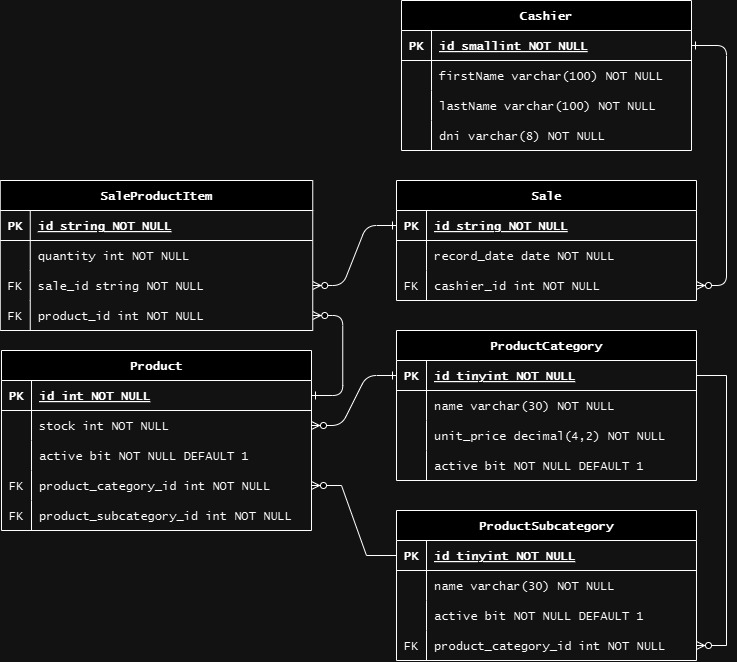
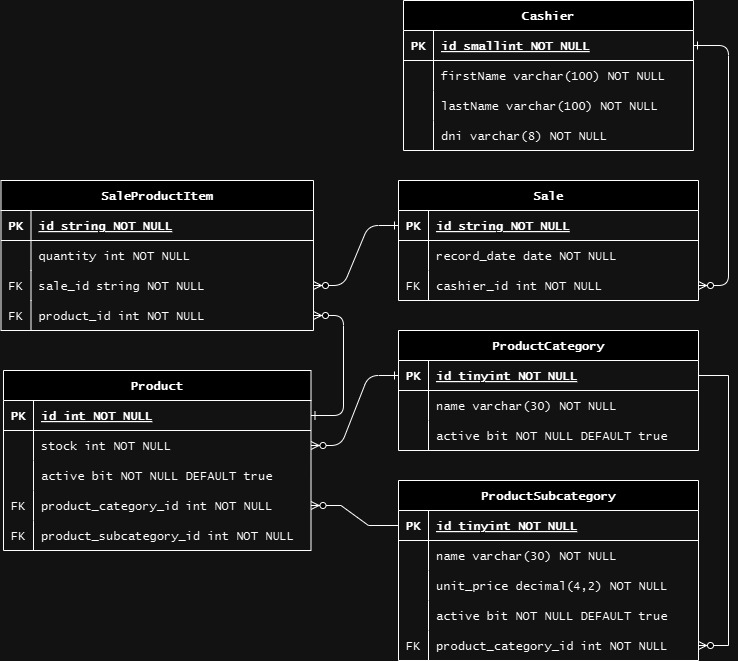
Configurando correctamente las migraciones y la conexión a la base de datos a través de TypeORM.

diff --git a/src/shared/infrastructure/persistence/migrations/1722219940147-InsertCategoriesAndSubcategories.ts b/src/shared/infrastructure/persistence/migrations/1722219940147-InsertCategoriesAndSubcategories.ts
@@ -1,0 +1,46 @@
+import { MigrationInterface, QueryRunner } from "typeorm";
+import ProductCategory from "../entities/ProductCategory.entity";
+import ProductSubcategory from "../entities/ProductSubcategory.entity";
+
+export class InsertCategoriesAndSubcategories1722219940147 implements MigrationInterface
+{
+	public async up(queryRunner: QueryRunner): Promise<void> {
+		const productCategoryRepository = queryRunner.manager.getRepository(ProductCategory);
+		const movieCategory = productCategoryRepository.create({
+			id: 1,
+			name: "Película",
+			active: true
+		});
+		const videogameCategory = productCategoryRepository.create({
+			id: 2,
+			name: "Videojuego",
+			active: true
+		});
+		await productCategoryRepository.insert([movieCategory, videogameCategory]);
+		await queryRunner.manager.getRepository(ProductSubcategory).insert([
+			{
+				id: 1, name: "DVD", unitPrice: 1.50, active: true, category: movieCategory
+			},
+			{
+				id: 2, name: "Blu-ray", unitPrice: 10.00, active: true, category: movieCategory
+			},
+			{
+				id: 3, name: "PS1", unitPrice: 1.50, active: true, category: videogameCategory
+			},
+			{
+				id: 4, name: "PS2", unitPrice: 2.00, active: true, category: videogameCategory
+			},
+			{
+				id: 5, name: "PS3", unitPrice: 5.00, active: true, category: videogameCategory
+			},
+			{
+				id: 6, name: "Xbox 360", unitPrice: 5.00, active: true, category: videogameCategory
+			},
+			{
+				id: 7, name: "Wii", unitPrice: 5.00, active: true, category: videogameCategory
+			}
+		]);
+	}
+	// eslint-disable-next-line @typescript-eslint/no-unused-vars
+	public async down(_: QueryRunner): Promise<void> {}
+}

diff --git a/src/index.ts b/src/index.ts
@@ -1,19 +1,22 @@
 import "reflect-metadata";
+
+process.loadEnvFile(".env");
+
 import express from "express";
-import PostgreSQLDataSource from "./data-source/data-source";
-import ProductCategory from "./models/products/ProductCategory";
-import ProductSubcategory from "./models/products/ProductSubcategory";
+import PostgreSQLDataSource from "./shared/infrastructure/persistence/typeorm.config";
+import ProductCategory from "./shared/infrastructure/persistence/entities/ProductCategory.entity";
+import ProductSubcategory from "./shared/infrastructure/persistence/entities/ProductSubcategory.entity";
 
 PostgreSQLDataSource.initialize()
-	.then(console.info)
+	.then(() => console.info("Database connected!"))
 	.catch(console.error);
 
 const app = express();
 
-app.get("/hello-world/:name", async (req, res) => {
-	const categoryList = await PostgreSQLDataSource.manager.find(ProductCategory);
-	const subcategoryList = await PostgreSQLDataSource.manager.find(ProductSubcategory);
-	res.json({ categoryList, subcategoryList });
+app.get("/hello-world", async (_, res) => {
+	const categories = await PostgreSQLDataSource.manager.find(ProductCategory);
+	const subcategories = await PostgreSQLDataSource.manager.find(ProductSubcategory);
+	res.json({ categories, subcategories });
 });
 
 const port = process.env.PORT;

diff --git a/src/shared/infrastructure/persistence/entities/ProductSubcategory.entity.ts b/src/shared/infrastructure/persistence/entities/ProductSubcategory.entity.ts
@@ -1,5 +1,5 @@
-import { Entity, PrimaryColumn, Column, OneToOne, JoinColumn } from "typeorm";
-import ProductCategory from "./ProductCategory";
+import { Entity, PrimaryColumn, Column, JoinColumn, ManyToOne } from "typeorm";
+import ProductCategory from "./ProductCategory.entity";
 
 @Entity()
 export default class ProductSubcategory {
@@ -15,7 +15,6 @@ export default class ProductSubcategory {
 	public name: string;
 
 	@Column({
-		name: "unit_price",
 		type: "decimal",
 		precision: 4,
 		scale: 2
@@ -23,17 +22,16 @@ export default class ProductSubcategory {
 	public unitPrice: number;
 
 	@Column({
-		name: "active",
 		type: "boolean",
 		default: true
 	})
-	public isActive: boolean;
+	public active: boolean;
 
-	@OneToOne(() => ProductCategory)
+	@ManyToOne(() => ProductCategory, (category) => category)
 	@JoinColumn({
 		name: "product_category_id",
-		foreignKeyConstraintName: "fk_product_category_id",
 		referencedColumnName: "id"
 	})
 	public category: ProductCategory;
 }
+// UNIQUE

diff --git a/src/shared/infrastructure/persistence/entities/Product.entity.ts b/src/shared/infrastructure/persistence/entities/Product.entity.ts
@@ -1,0 +1,35 @@
+import { Entity, Column, PrimaryColumn, ManyToOne, JoinColumn } from "typeorm";
+import ProductCategory from "./ProductCategory.entity";
+import ProductSubcategory from "./ProductSubcategory.entity";
+
+@Entity()
+export default class Product {
+	@PrimaryColumn({
+		type: "int"
+	})
+	public id: number;
+
+	@Column({
+		type: "int"
+	})
+	public stock: number;
+
+	@Column({
+		type: "bit"
+	})
+	public active: boolean;
+
+	@ManyToOne(() => ProductCategory, (subcategory) => subcategory)
+	@JoinColumn({
+		name: "product_category_id",
+		referencedColumnName: "id"
+	})
+	public category: ProductCategory;
+
+	@ManyToOne(() => ProductSubcategory, (subcategory) => subcategory)
+	@JoinColumn({
+		name: "product_subcategory_id",
+		referencedColumnName: "id"
+	})
+	public subcategory: ProductSubcategory;
+}

diff --git a/src/shared/infrastructure/persistence/typeorm.config.ts b/src/shared/infrastructure/persistence/typeorm.config.ts
@@ -1,0 +1,22 @@
+import { DataSource } from "typeorm";
+import SnakeCaseStrategy from "./SnakeCaseStrategy";
+
+const isDevelopment = process.env.NODE_ENV === "development";
+function getPersistencePath(path: string): string {
+	return `src/shared/infrastructure/persistence${path}`;
+}
+const PostgreSQLDataSource = new DataSource({
+	type: "postgres",
+	host: process.env.DB_HOST,
+	port: Number(process.env.DB_PORT),
+	username: process.env.DB_USERNAME,
+	password: process.env.DB_PASSWORD,
+	database: process.env.DB_NAME,
+	synchronize: isDevelopment,
+	logging: isDevelopment,
+	namingStrategy: new SnakeCaseStrategy(),
+	entities: [getPersistencePath("/entities/**/**.entity.ts")],
+	migrations: [getPersistencePath("/migrations/**/*.ts")],
+});
+
+export default PostgreSQLDataSource;

diff --git a/src/shared/infrastructure/persistence/entities/SaleProductItem.entity.ts b/src/shared/infrastructure/persistence/entities/SaleProductItem.entity.ts
@@ -1,0 +1,26 @@
+import { Entity, Column, PrimaryGeneratedColumn, JoinColumn, ManyToOne } from "typeorm";
+import Sale from "./Sale.entity";
+import Product from "./Product.entity";
+
+@Entity()
+export default class SaleProductItem {
+	@PrimaryGeneratedColumn()
+	public id: number;
+
+	@Column()
+	public quantity: number;
+
+	@ManyToOne(() => Sale, (sale) => sale.products)
+	@JoinColumn({
+		name: "sale_id",
+		referencedColumnName: "id"
+	})
+	public sale: Sale;
+
+	@ManyToOne(() => Product)
+	@JoinColumn({
+		name: "product_id",
+		referencedColumnName: "id"
+	})
+	public product: Product;
+}

diff --git a/src/shared/infrastructure/persistence/entities/Sale.entity.ts b/src/shared/infrastructure/persistence/entities/Sale.entity.ts
@@ -1,0 +1,23 @@
+import { Entity, PrimaryColumn, Column, ManyToOne, OneToMany } from "typeorm";
+import SaleProductItem from "./SaleProductItem.entity";
+import Cashier from "./Cashier.entity";
+
+@Entity()
+export default class Sale {
+	@PrimaryColumn({
+		type: "varchar",
+		length: 36
+	})
+	public id: string;
+
+	@Column({
+		type: "date"
+	})
+	public recordDate: Date;
+
+	@OneToMany(() => SaleProductItem, (saleProductItem) => saleProductItem.sale)
+	public products: SaleProductItem[];
+
+	@ManyToOne(() => Cashier, (cashier) => cashier)
+	public cashier: Cashier;
+}

diff --git a/src/shared/infrastructure/persistence/SnakeCaseStrategy.ts b/src/shared/infrastructure/persistence/SnakeCaseStrategy.ts
@@ -1,0 +1,11 @@
+import { DefaultNamingStrategy } from "typeorm";
+
+export default class SnakeCaseStrategy extends DefaultNamingStrategy {
+	// eslint-disable-next-line @typescript-eslint/no-unused-vars
+	columnName(propertyName: string, customName: string, embeddedPrefixes: string[]): string {
+		return this.toSnakeCase(customName ? customName : propertyName);
+	}
+	private toSnakeCase(identifier: string): string {
+		return identifier.replace(/([A-Z])/g, "_$1").toLowerCase();
+	}
+}

diff --git a/src/shared/infrastructure/persistence/entities/ProductCategory.entity.ts b/src/shared/infrastructure/persistence/entities/ProductCategory.entity.ts
@@ -14,9 +14,8 @@ export default class ProductCategory {
 	public name: string;
 
 	@Column({
-		name: "active",
 		type: "boolean",
 		default: true
 	})
-	public isActive: boolean;
+	public active: boolean;
 }

diff --git a/src/shared/infrastructure/persistence/migration.config.ts b/src/shared/infrastructure/persistence/migration.config.ts
@@ -1,0 +1,5 @@
+process.loadEnvFile(".env");
+
+import PostgreSQLDataSource from "./typeorm.config";
+
+export default PostgreSQLDataSource;

diff --git a/src/shared/infrastructure/persistence/entities/Cashier.entity.ts b/src/shared/infrastructure/persistence/entities/Cashier.entity.ts
@@ -21,6 +21,7 @@ export default class Cashier {
 
 	@Column({
 		type: "varchar",
+		unique: true,
 		length: 8
 	})
 	public dni: string;

diff --git a/README.md b/README.md
@@ -4,12 +4,18 @@ API para el registro de ventas de productos retro piratas como películas en DVD
 
 ## Commands
 
-* Habilita PostgreSQL.
+* Habilitar PostgreSQL con Docker.
 ```powershell
 docker compose up -d
 ```
 
-* Ejecuta el backend.
+* Ejecutar el backend.
 ```powershell
 npm start
+```
+
+* Crear una migración.
+```powershell
+npm run mgr:create --name=<migration-name>
+#npm run mgr:create --name=InsertCategoriesAndSubcategories
 ```
